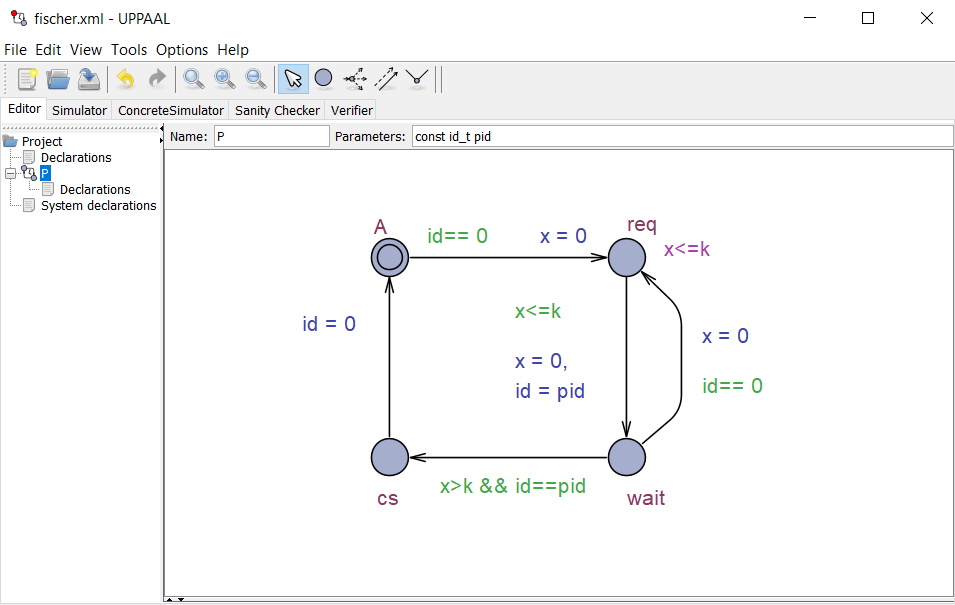
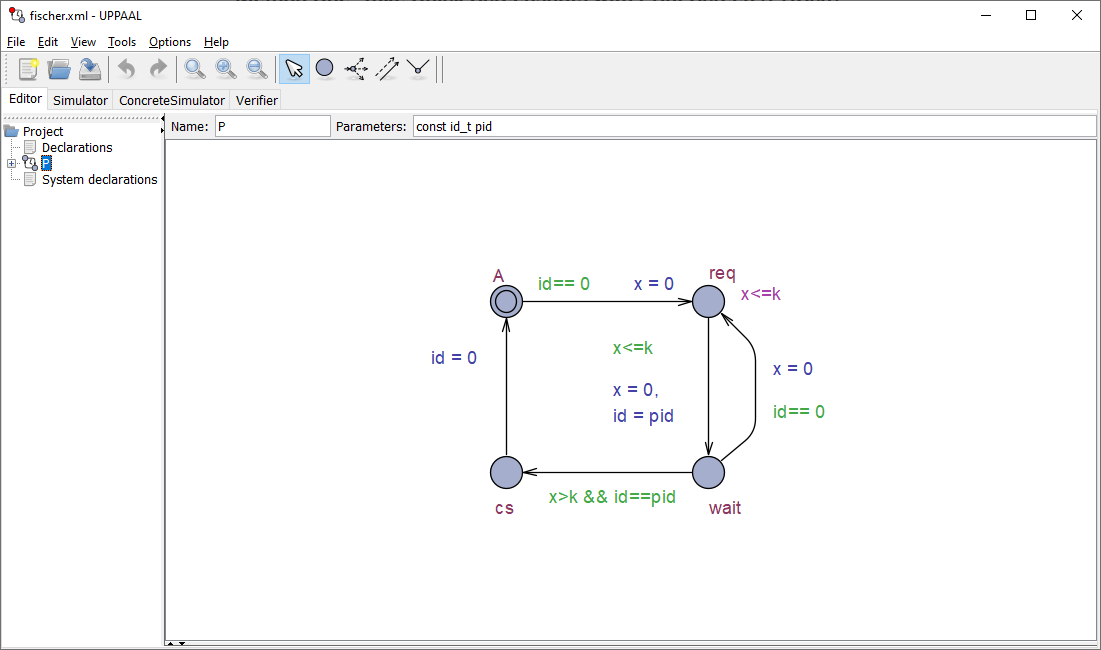
Added new gui image + image for toolbar

diff --git a/content/gui-reference/toolbar.md b/content/gui-reference/toolbar.md
@@ -5,6 +5,8 @@ weight: 20
 
 The tool bar is normally located just below the [menu bar](/gui-reference/menu-bar/) but can be moved (using the mouse) to other positions or even to a separate window. The tool bar is devided into three groups. The two leftmost groups provides quick access to some of the most frequently used menu items. The rightmost group contains editing tools.
 
+![UPPAAL Toolbar](/gui-reference/uppaal-toolbar.png)
+
 The first group contains the following buttons: _New_, _Open Project_, and _Save_. These features are described in the [File menu](/gui-reference/menu-bar/file/) section.
 
 The second group contains the following buttons: _Zoom to Fit_, _Zoom In_, and _Zoom Out_. This features are described in the [View menu](/gui-reference/menu-bar/view/) section.
